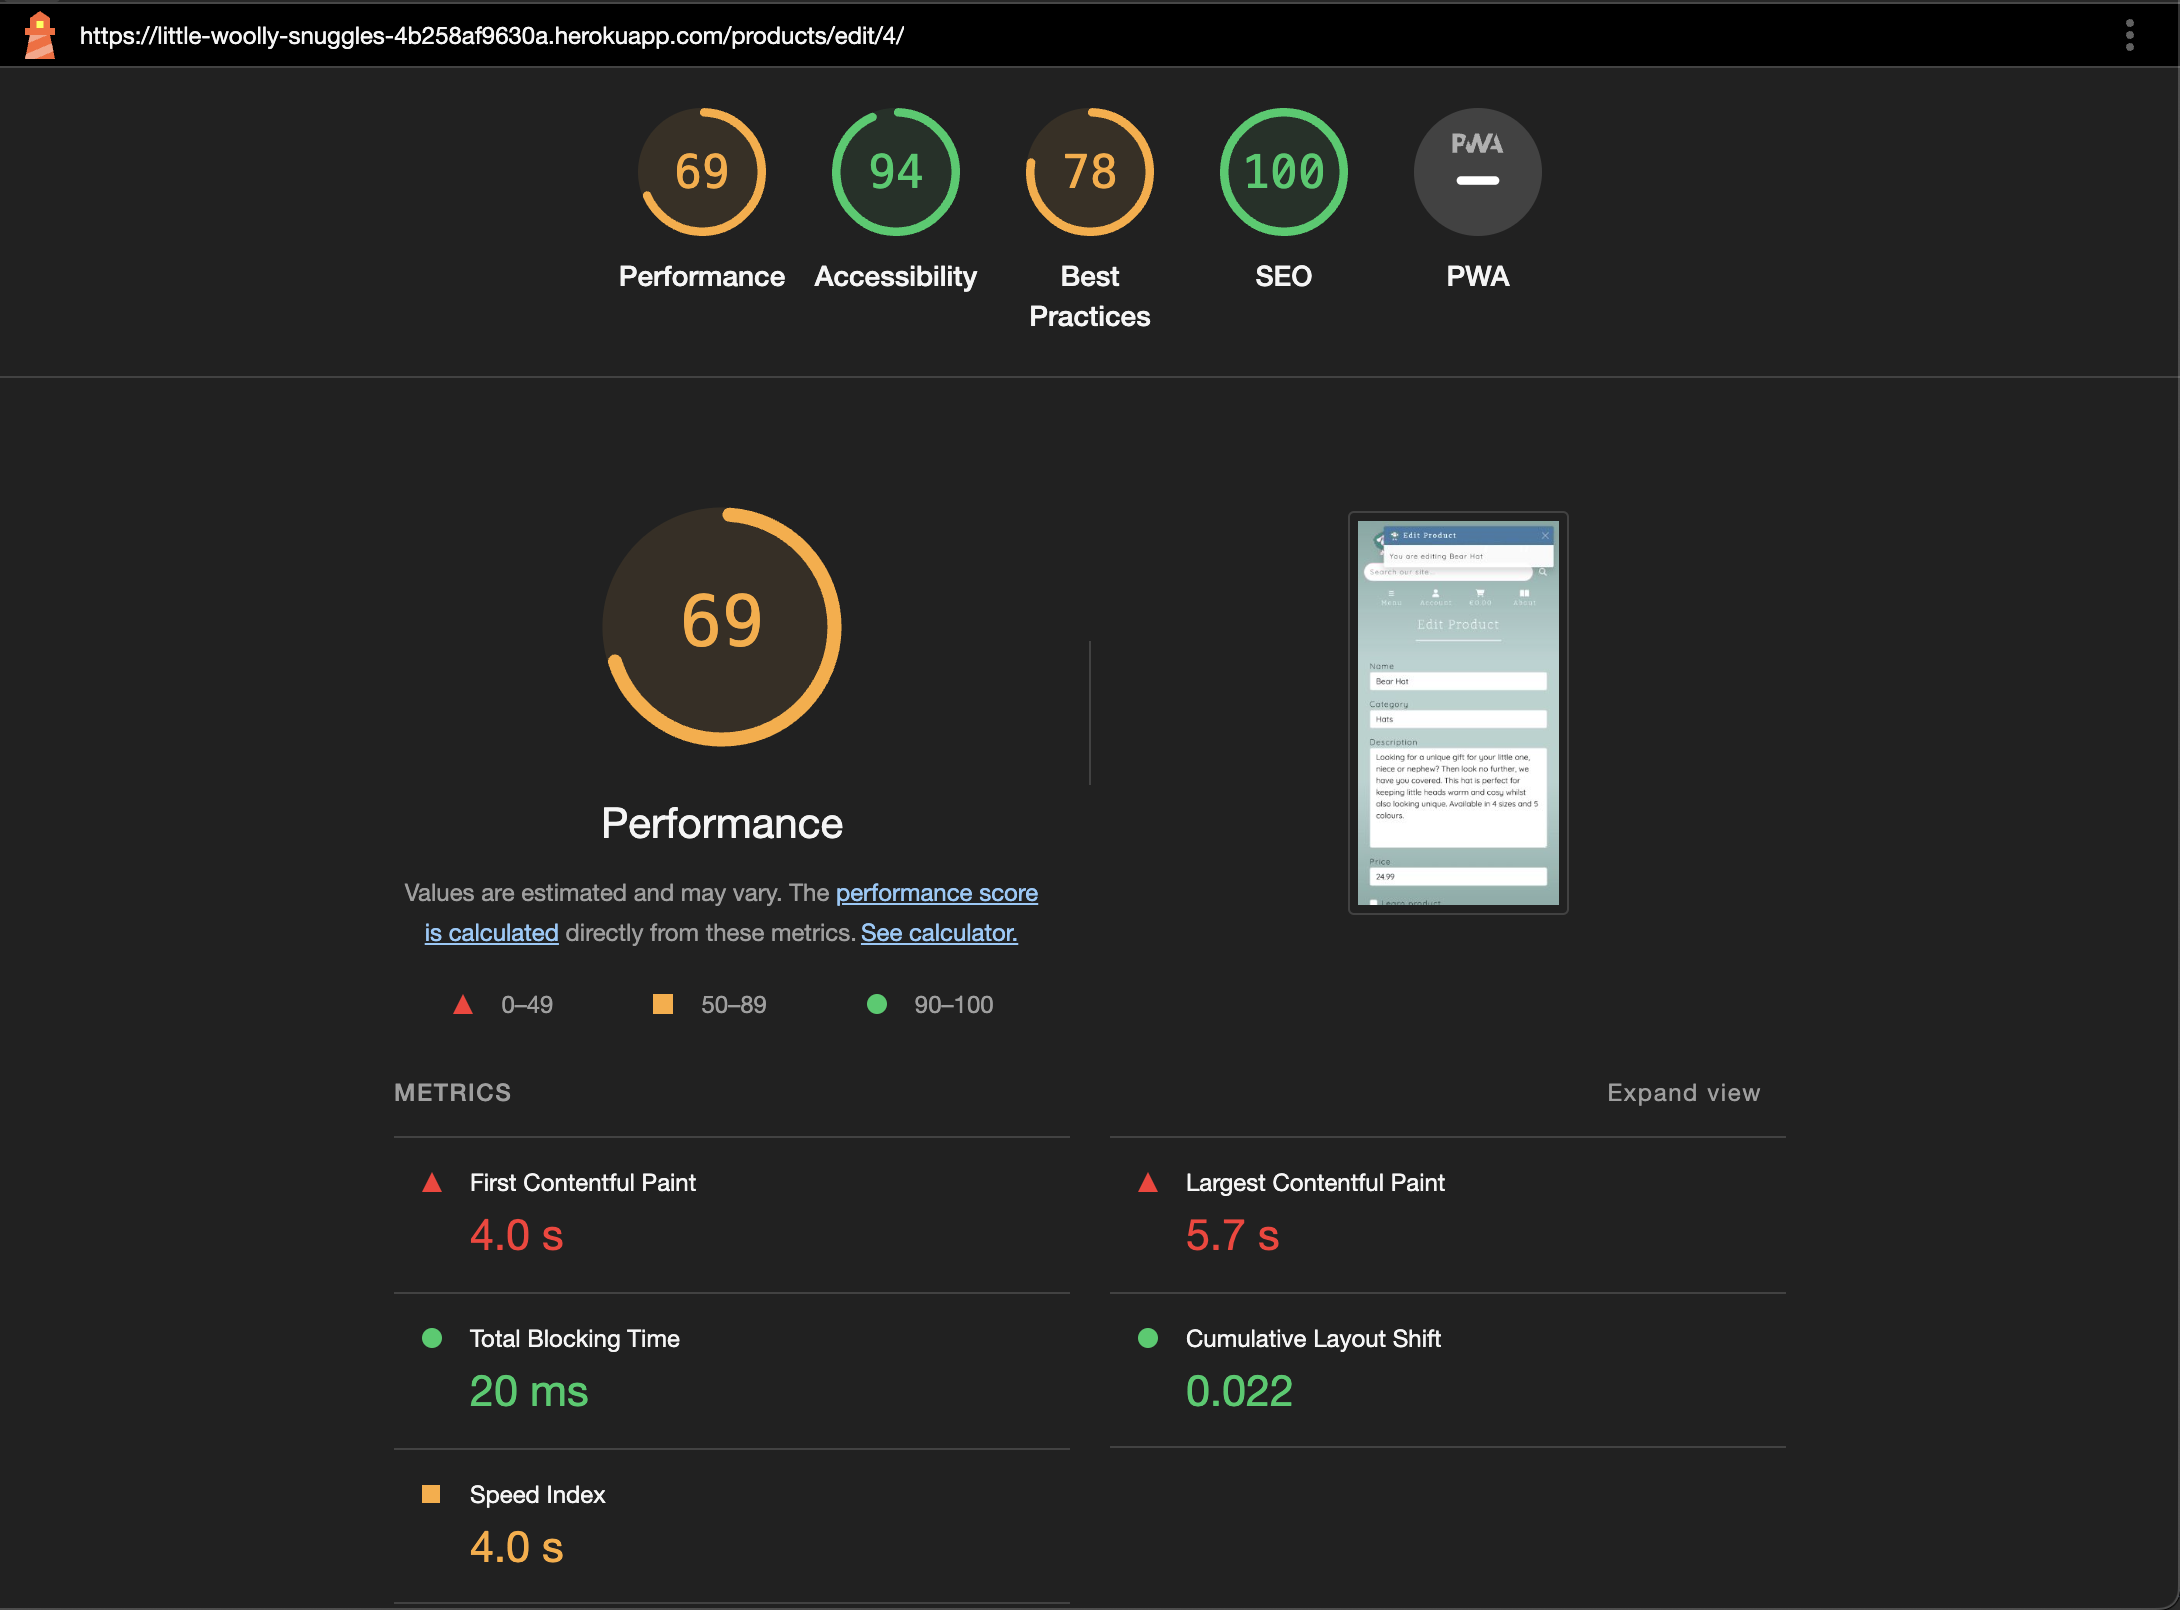
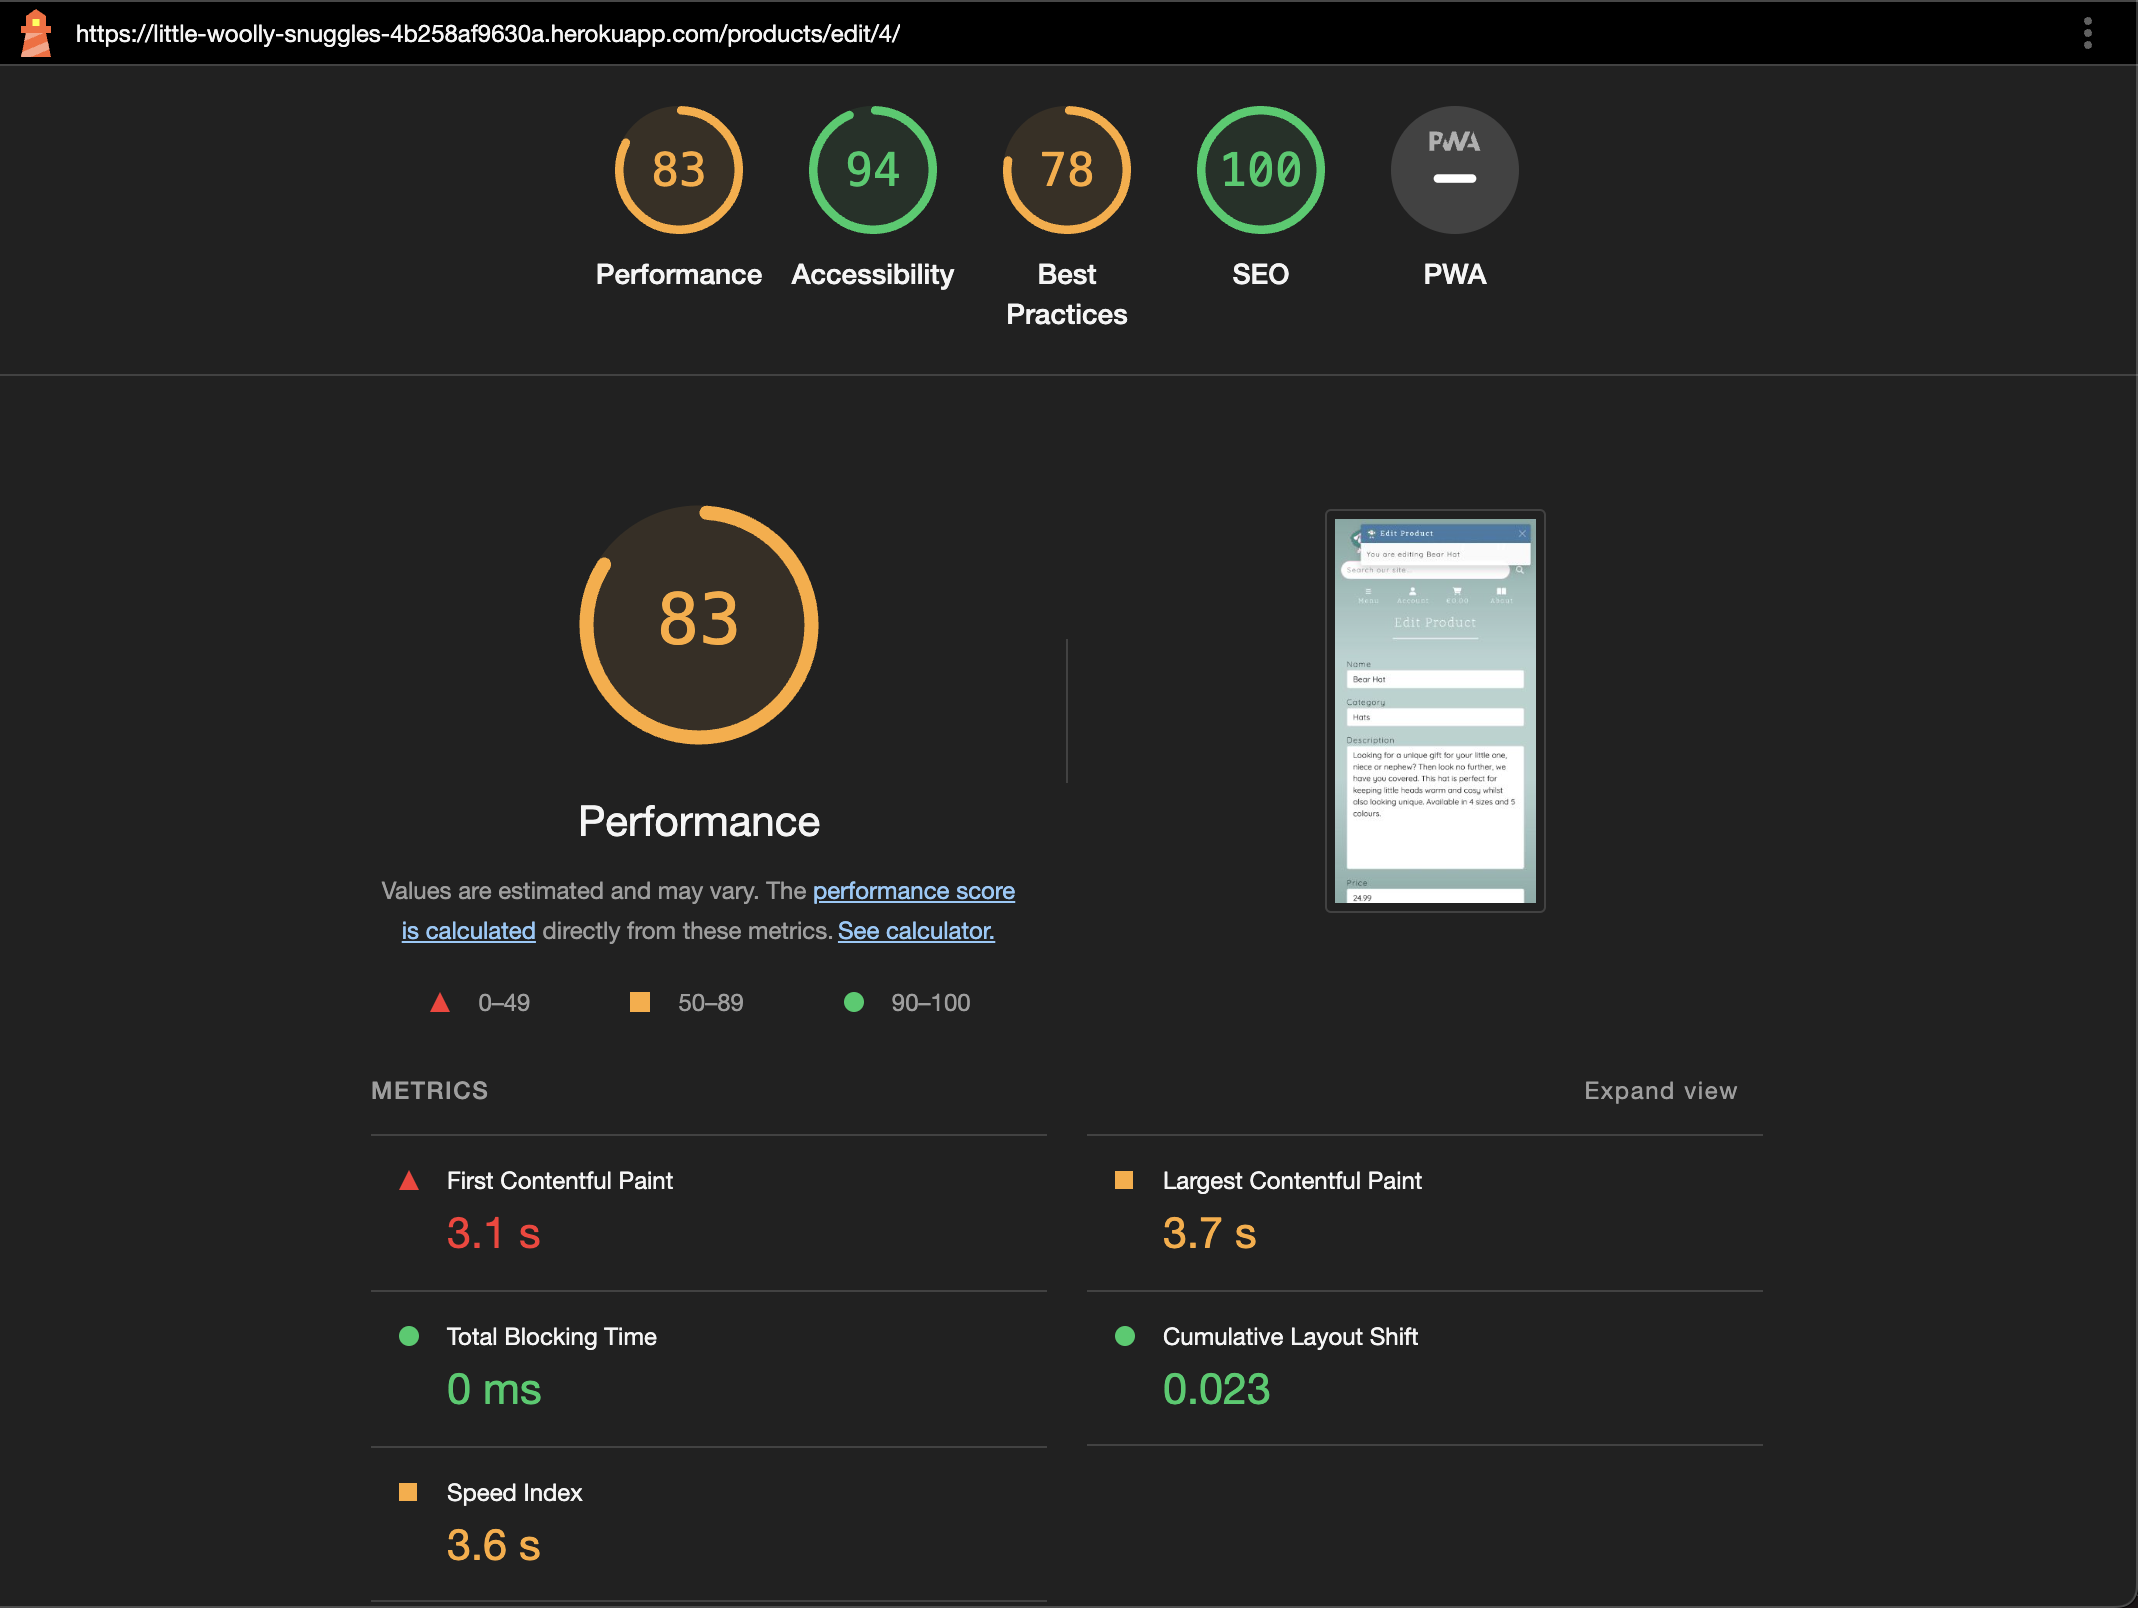
test: complete lighthouse validaton

diff --git a/TESTING.md b/TESTING.md
@@ -255,13 +255,13 @@ Each of the site Python files containing code over and above a basic import and 
 
 ### Lighthouse
 
-All HTML pages were checked using [Chrome DevTools Lighthouse](https://developer.chrome.com/docs/lighthouse/overview/). At first the performance results were sub-optimal, returning a score of 50-55. This very much reflected my experience of the app, taking a long time to render in the browser. Upon investigation, the main issue was due to the server response time of circa 4500ms. Upon researching issue and found two possible means of improving performance - [lazy image loading](https://www.sitepoint.com/five-techniques-lazy-load-images-website-performance/) and [caching](https://adamj.eu/tech/2023/03/23/django-context-processors-database-queries/), the former of which I reverted based on feedback from Lighthouse report. I also compressed images and converted to webp. This increased the score to around 60. In order to troubleshoot and improve the score further, I installed Django debug toolbar and analysed the SQL queries noticing a large number of redundant queries which I was able to resolve by refactoring the code and moving any conditional logic in the view files, bringing the score to mid-60s.  The user profile off canvases order history accounted for a large number of the queries so to improve the score further I opted to remove this from the off canvases and replace with a link to the profile page.  I then investigated further in a final effort to improve the score and found this [blog](https://medium.com/@Nehe_Kamolu/master-caching-in-django-boosting-performance-with-cache-1bb8b87bcdf5#:~:text=The%20%7B%25%20cache%20%25%7D%20template%20tag%20takes%20two%20arguments%2C%20the,one%20or%20more%20additional%20arguments.) recommending installation of Django cache middleware. The last adjustment made a huge difference to the score as can be seen in the table below.
+All HTML pages were checked using [Chrome DevTools Lighthouse](https://developer.chrome.com/docs/lighthouse/overview/). At first the performance results were sub-optimal, returning a score of 50-55. This very much reflected my experience of the app, taking a long time to render in the browser. Upon investigation, the main issue was due to the server response time of circa 4500ms. Upon researching issue and found two possible means of improving performance - [lazy image loading](https://www.sitepoint.com/five-techniques-lazy-load-images-website-performance/) and [caching](https://adamj.eu/tech/2023/03/23/django-context-processors-database-queries/), the former of which I reverted based on feedback from Lighthouse report. I also compressed images and converted to webp. This increased the score to around 60. In order to troubleshoot and improve the score further, I installed Django debug toolbar and analysed the SQL queries noticing a large number of redundant queries which I was able to resolve by refactoring the code and moving any conditional logic in the view files, bringing the score to mid-60s.  The user profile off canvases order history accounted for a large number of the queries so to improve the score further I opted to remove this from the off canvases and replace with a link to the profile page. 
+
+When testing the production database in developer environment the scores for each page were over 90. However I could not achieve these scores for all pages. In the interest of project delivery, any further works to improve them was suspended with a view to returning at a later date.
 
 The best practices score was also less than optimal at 78. The main reason appears to be related to use of third party cookies, which is a feature that Google will be phasing out. However, for this project they are necessary so the score could not be improved upon
 
 In all instances the Accessibility and SEO scores were excellent. The latter was welcome given the focus on SEO in this project. 
-
-The status code pages returned an error on Lighthouse in Navigation mode, possibly owing to the fact that they redirect after a countdown period. Based on their content simplicity and the fact they should be rarely accessed, the Snapshot mode was selected. Each page returned the same score which is shown at the bottom of the table.
 
 For mobile devices, the performance score was in the 60-80 region, much like in the previous project to this. Researching this performance dip then revealed that any countermeasures and any further alterations towards improving the mobile performance score could be time consuming and in the interests of project progress have not been implemented here.
 
@@ -272,7 +272,14 @@ For mobile devices, the performance score was in the 60-80 region, much like in 
 |product-detail.html|![lighthouse-desktop-results](documentation/TESTING-files/lighthouse-validation/desktop/product-detail-page.png)|![lighthouse-mobile-results](documentation/TESTING-files/lighthouse-validation/mobile/product-detail-page.png)
 |add-product.html|![lighthouse-desktop-results](documentation/TESTING-files/lighthouse-validation/desktop/add-product-page.png)|![lighthouse-mobile-results](documentation/TESTING-files/lighthouse-validation/mobile/add-product-page.png)
 |edit-product.html|![lighthouse-desktop-results](documentation/TESTING-files/lighthouse-validation/desktop/edit-product-page.png)|![lighthouse-mobile-results](documentation/TESTING-files/lighthouse-validation/mobile/edit-product-page.png)
+|cart.html|![lighthouse-desktop-results](documentation/TESTING-files/lighthouse-validation/desktop/cart-page.png)|![lighthouse-mobile-results](documentation/TESTING-files/lighthouse-validation/mobile/cart-page.png)
+|checkout.html|![lighthouse-desktop-results](documentation/TESTING-files/lighthouse-validation/desktop/checkout-page.png)|![lighthouse-mobile-results](documentation/TESTING-files/lighthouse-validation/mobile/checkout-page.png)
+|checkout-success.html|![lighthouse-desktop-results](documentation/TESTING-files/lighthouse-validation/desktop/checkout-success-page.png)|![lighthouse-mobile-results](documentation/TESTING-files/lighthouse-validation/mobile/checkout-success-page.png)
 |profile.html|![lighthouse-desktop-results](documentation/TESTING-files/lighthouse-validation/desktop/profile-page.png)|![lighthouse-mobile-results](documentation/TESTING-files/lighthouse-validation/mobile/profile-page.png)
+|400.html|![lighthouse-desktop-results](documentation/TESTING-files/lighthouse-validation/desktop/400-error-page.png)|![lighthouse-mobile-results](documentation/TESTING-files/lighthouse-validation/mobile/400-error-page.png)
+|403.html|![lighthouse-desktop-results](documentation/TESTING-files/lighthouse-validation/desktop/403-error-page.png)|![lighthouse-mobile-results](documentation/TESTING-files/lighthouse-validation/mobile/403-error-page.png)
+|404.html|![lighthouse-desktop-results](documentation/TESTING-files/lighthouse-validation/desktop/404-error-page.png)|![lighthouse-mobile-results](documentation/TESTING-files/lighthouse-validation/mobile/404-error-page.png)
+|500.html|![lighthouse-desktop-results](documentation/TESTING-files/lighthouse-validation/desktop/500-error-page.png)|![lighthouse-mobile-results](documentation/TESTING-files/lighthouse-validation/mobile/500-error-page.png)
 
 ### DBeaver
 
